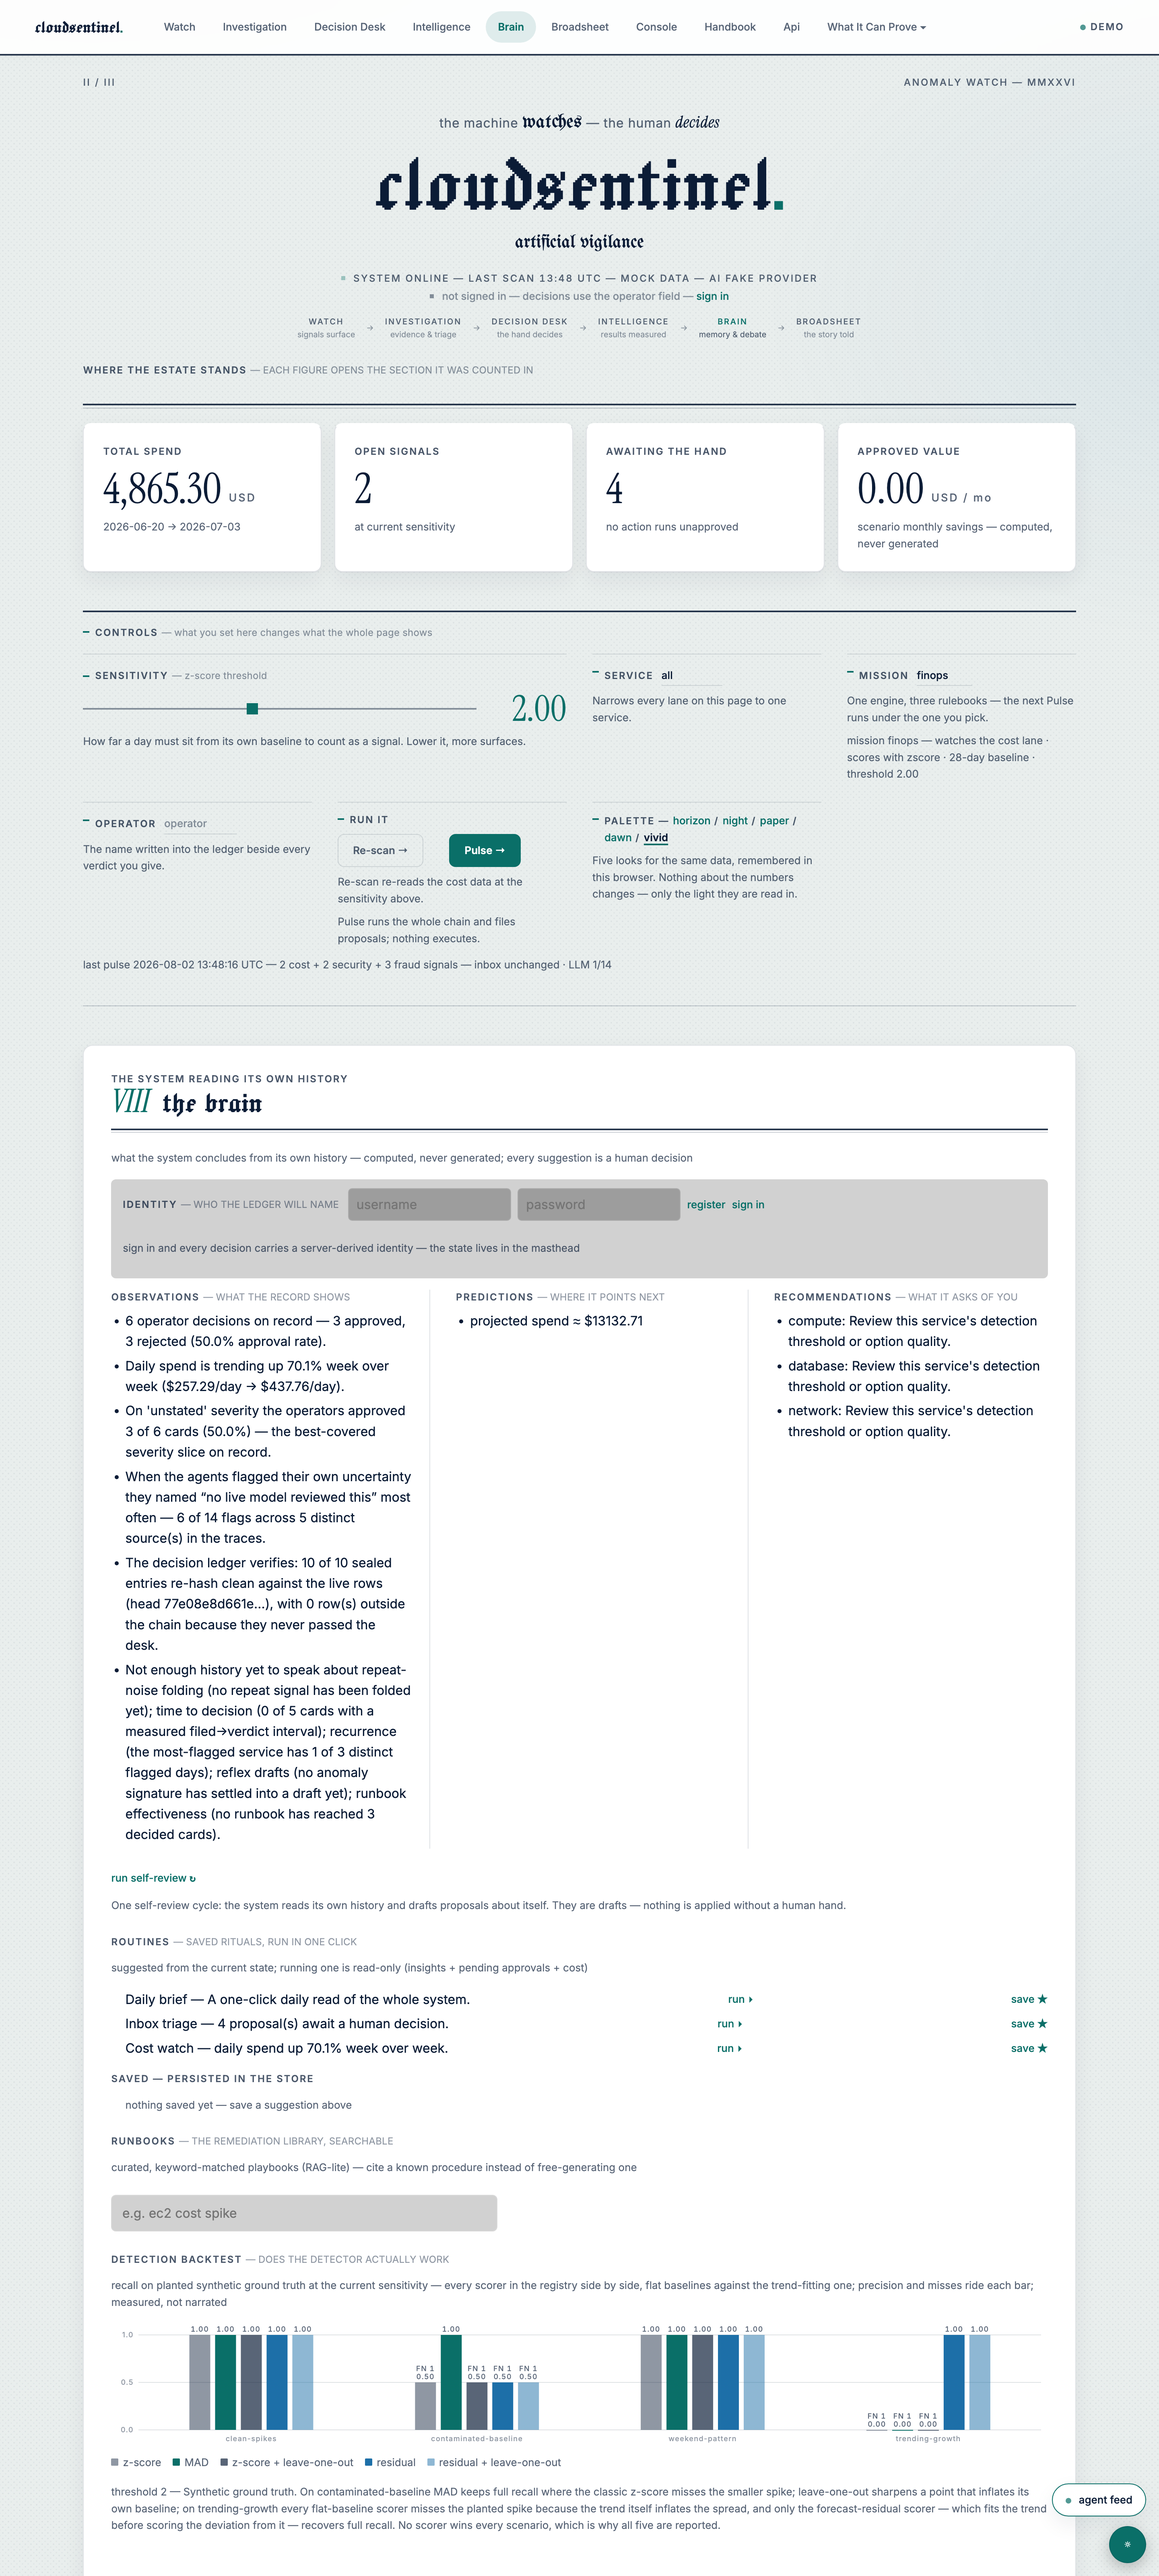
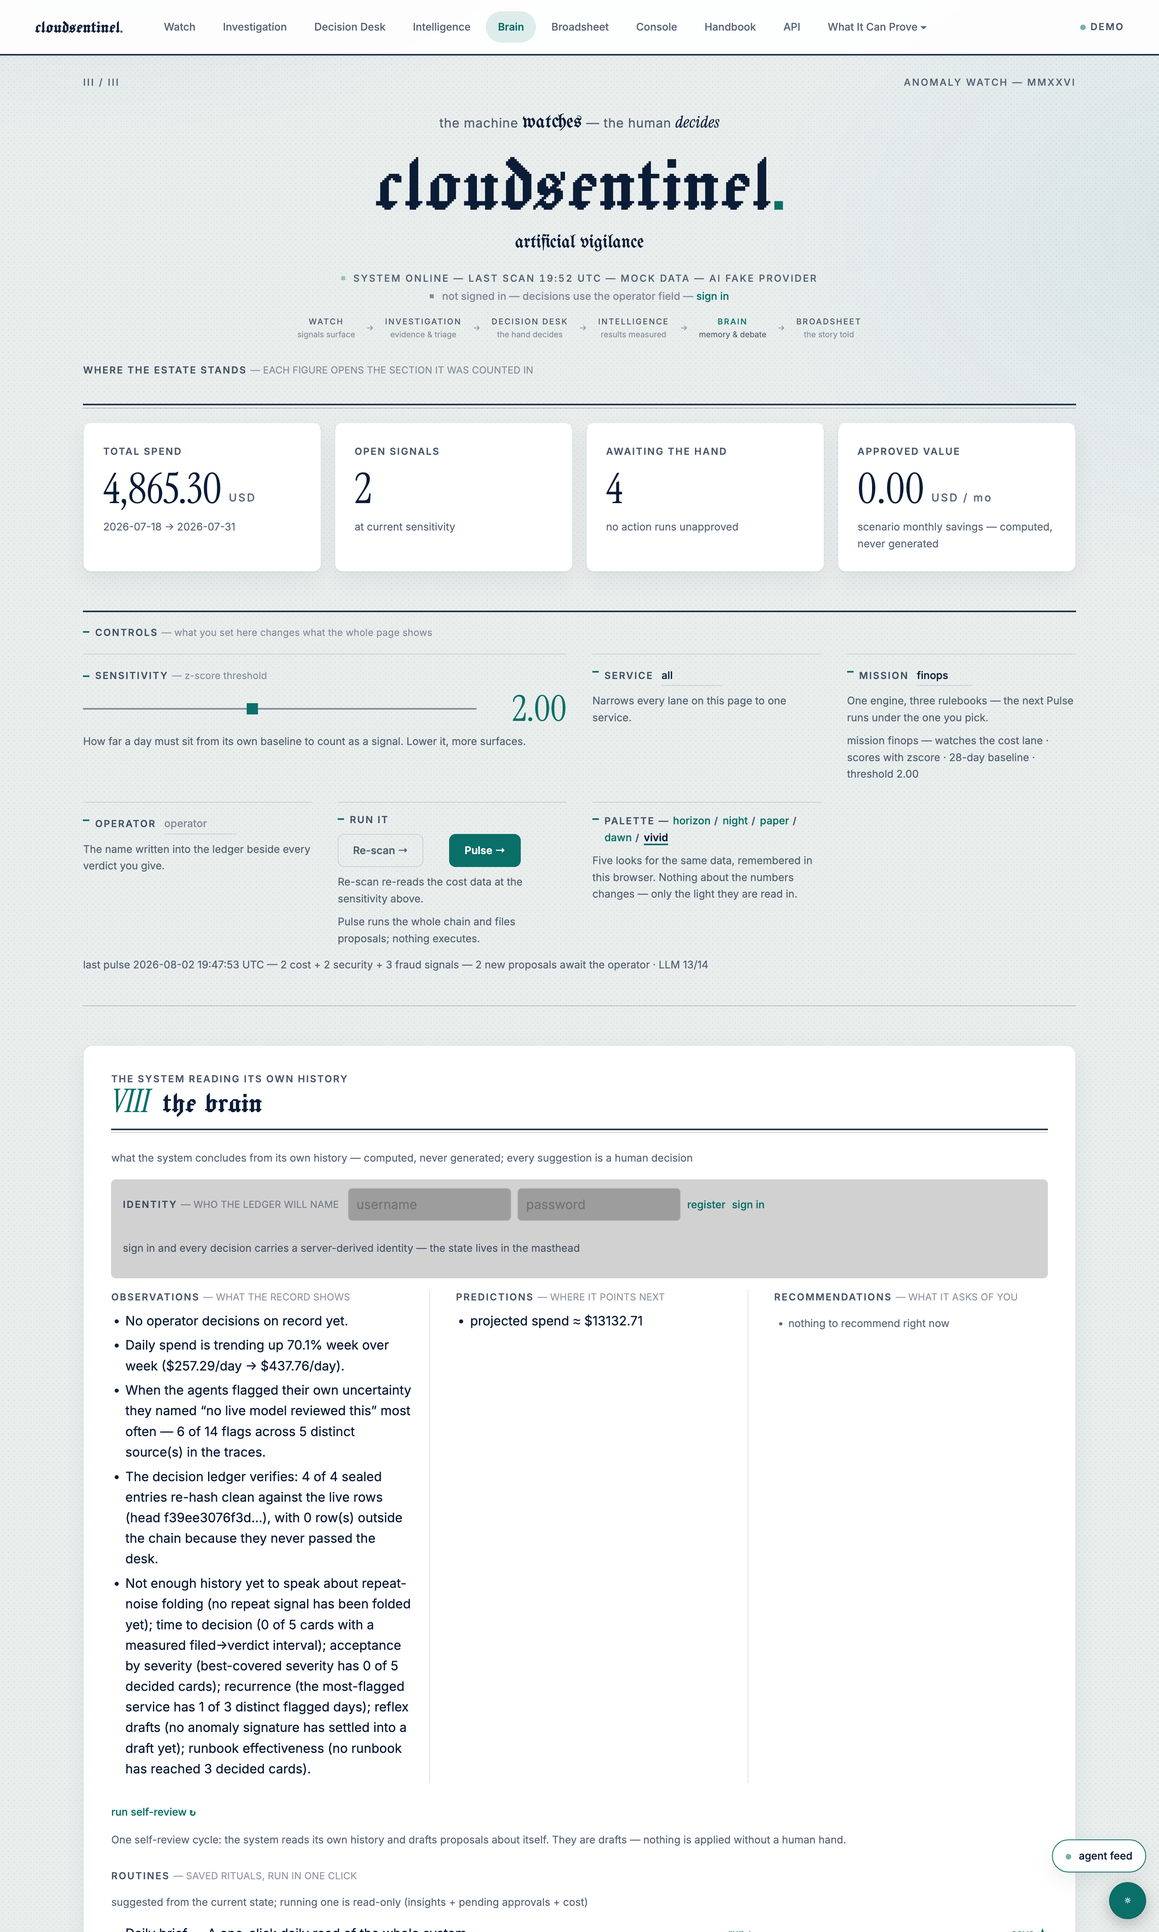
docs: the evidence pack shows the product as it stands tonight
The room captures were taken before this evening's fixes landed, so they
showed a desk printing lane labels where the numbers belong, a masthead
reading II / III on the final sprint, and a nav tab spelling API as a word.
Recaptured against the demo stage after a fresh pulse: two critical signals
with their evidence, two proposals awaiting a hand, the ledger reporting
four sealed and intact, and the full 59-path surface.

An evidence pack that shows an older build is worse than no evidence pack,
because a juror who clicks the live link sees something else and stops
trusting the rest of the folder.

diff --git a/ProjectManagement/Sprint3Documents/README.md b/ProjectManagement/Sprint3Documents/README.md
@@ -1,6 +1,6 @@
 # Sprint 3 Evidence Pack
 
-*Recaptured 2 August 2026, after the interface rebuild — the July 27 set
+*Recaptured late on 2 August 2026, after the evening's fixes landed — the earlier sets
 showed a design the product no longer has. Taken on a fresh demo stage
 (`make demo`: deterministic provider, dates rebased to the current week),
 `POST /ops/demo-reset?seed=1`, then one `POST /pulse` so the desk, the
